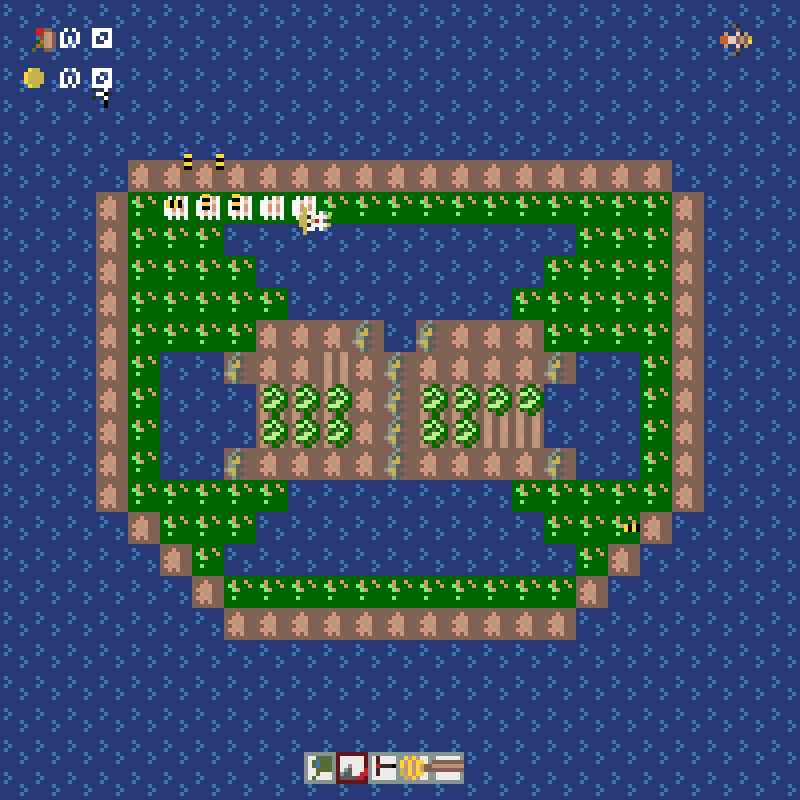
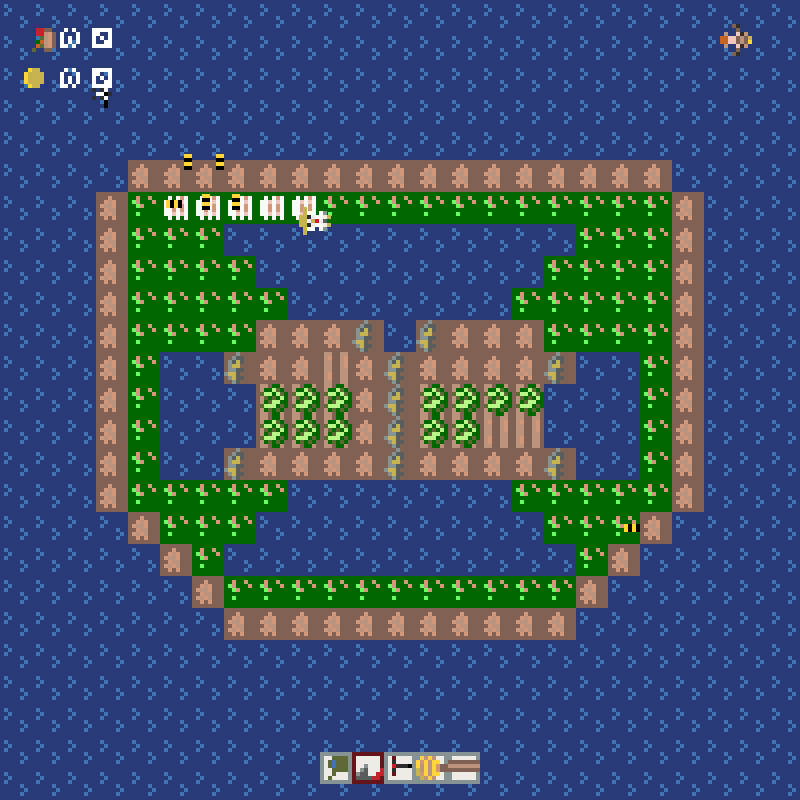
Present the README as a technical project
Lead with what the project is and how it is engineered: highlights,
architecture with a frame pipeline diagram, engineering notes on the
fixes and their design, and the testing strategy. The coursework origin,
credits for course-provided material and AI usage move to a Background
section. Refresh the screenshot with the centred inventory bar.

Changed region(s): [[0.375, 0.9375, 0.625, 1.0]]

diff --git a/README.md b/README.md
@@ -1,123 +1,160 @@
-# 🐔 JavaBeans - Chicken Farmer Game
+# 🐔 JavaBeans: Chicken Farmer
 
 [![CI](https://github.com/BrianTr9/JavaBeans-Chicken-Farmer-PITL/actions/workflows/ci.yml/badge.svg)](https://github.com/BrianTr9/JavaBeans-Chicken-Farmer-PITL/actions/workflows/ci.yml)
-[![Java](https://img.shields.io/badge/Java-21-ED8B00?style=flat-square&logo=java)](https://www.oracle.com/java/)
-[![License](https://img.shields.io/badge/License-Educational-blue?style=flat-square)](#-license)
+[![Java](https://img.shields.io/badge/Java-21-ED8B00?style=flat-square&logo=openjdk)](https://openjdk.org/projects/jdk/21/)
+[![Tests](https://img.shields.io/badge/tests-425_passing-brightgreen?style=flat-square)](#-testing)
+[![Gradle](https://img.shields.io/badge/build-Gradle-02303A?style=flat-square&logo=gradle)](build.gradle)
 
-A 2D farming game in Java, inspired by Stardew Valley. You play a chicken farmer who mines ore,
-grows cabbages and defends the farm from thieving birds with bee hives and scarecrows.
+A tile-based 2D farming game in Java 21. You farm crops and mine ore while thieving birds raid
+the farm. Bee hives and scarecrows defend it.
 
 <p align="center">
   <img src="docs/screenshot.png" alt="Gameplay: a row of bee hives releasing guard bees while birds
   approach the cabbage fields" width="480">
 </p>
 
-The project combines both CSSE2002 (Programming in the Large) assignments from the University
-of Queensland, Semester 2 2025, into a single codebase:
+**Highlights**
 
-- **Assignment 1**: the core game (player, world, tiles, tools, inventory), built from a
-  method-level specification.
-- **Assignment 2**: an extension that adds birds, spawners, towers and data-driven levels, plus
-  bug fixing, refactoring and JUnit tests.
-- **Consolidation**: merging both histories, fixing the remaining bugs, filling the test gaps
-  and adding a Gradle build, Checkstyle and CI.
+- **Simulation core**: a fixed-order, per-frame tick pipeline over the player, NPCs, enemies,
+  the tile world and the HUD. Entities are only marked for removal during updates and are
+  cleaned up between phases, so no collection changes while it is being iterated.
+- **Enemy behaviour**: three bird types with steering, theft, fleeing and lifespans, plus
+  timed spawners. Guard bees chase the nearest target. Stolen goods are refunded exactly once,
+  through a removal hook.
+- **Data-driven levels**: a tile map plus a key/value level file. The parser validates input and
+  reports the section and line of any error.
+- **425 automated tests**: unit tests for the game logic, plus whole-game simulation tests
+  that replay scripted input and analyse every rendered frame.
+- **Tooling**: Gradle wrapper, Checkstyle enforced at zero warnings, Javadoc with
+  design-by-contract tags, and GitHub Actions CI.
 
-## 🎮 Quick start
-
-Requires a JDK (17 to 24) to start Gradle. The wrapper downloads Gradle, and the build uses
-Java 21, which is downloaded automatically if it is not installed.
+## 🚀 Quick start
 
 ```bash
-./gradlew run      # play the game
-./gradlew test     # run all 414 JUnit tests
-./gradlew check    # tests + Checkstyle (CSSE2002 style guide)
+./gradlew run      # play
+./gradlew test     # run the test suite
+./gradlew check    # tests + Checkstyle
 ```
 
-On Windows use `gradlew.bat`. In IntelliJ IDEA, open the folder and import it as a Gradle
-project.
+A JDK between 17 and 24 is enough to start Gradle. The build compiles with Java 21 and downloads
+it automatically if it is missing. On Windows use `gradlew.bat`.
 
-## 🕹 How to play
+## 🕹 Gameplay
 
 | Input | Action |
 |-------|--------|
-| **W A S D** | Walk (water blocks you) |
+| **W A S D** | Walk (water blocks movement) |
 | **1 – 5** | Select an inventory slot |
-| **Left click** | Use the held tool on the tile you are standing on |
+| **Left click** | Use the held tool on the tile underfoot |
 
-Walking over a fully grown cabbage harvests it for **+2 food and +3 coins**. You start with
-20 coins and 30 food (set in `resources/uqLogo.details`).
+| Tool | Use on | Effect |
+|------|--------|--------|
+| Bucket | Tilled dirt | Plant a cabbage (2 coins). It ripens in four stages |
+| Hoe | Grass / dirt | Turn grass into dirt; till dirt |
+| Jackhammer | Ore | Mine 2 coins every 5 ticks (10 coins per rock) |
+| Hive hammer | Empty grass | Build a bee hive (2 coins + 2 food) |
+| Pole | Empty tilled dirt | Build a scarecrow (2 coins) |
 
-### Tools
+Walking over a ripe cabbage harvests it (+2 food, +3 coins).
 
-| Slot | Tool | Use on | Effect |
-|:---:|------|--------|--------|
-| 1 | Bucket | Tilled dirt | Plant a cabbage (2 coins). It ripens in 4 stages of 100 ticks |
-| 2 | Hoe | Grass / dirt | Turn grass into dirt; till dirt |
-| 3 | Jackhammer | Ore | Mine 2 coins every 5 ticks (10 coins per rock) |
-| 4 | Hive hammer | Empty grass | Build a bee hive (2 coins + 2 food) |
-| 5 | Pole | Empty tilled dirt | Build a scarecrow (2 coins) |
+| Enemy | Targets | Steals | Countered by |
+|-------|---------|--------|--------------|
+| Magpie | Player | 1 coin | Bees, scarecrows |
+| Eagle | Player | Up to 3 food | Bees |
+| Pigeon | Nearest cabbage | The cabbage | Bees, scarecrows |
 
-### Birds and defences
+Birds fly home after a theft. A bird removed before it gets home gives back what it stole.
 
-| Bird | Goes after | Steals | Stopped by |
-|------|-----------|--------|-----------|
-| 🐦 Magpie | The player | 1 coin | Bees, scarecrows |
-| 🦅 Eagle | The player | 3 food | Bees |
-| 🕊 Pigeon | Nearest cabbage | The cabbage | Bees, scarecrows |
-
-Birds fly home after a theft. If a bird is removed before it gets home (for example, caught by a
-bee), it **returns what it stole**. Pigeons only spawn while there is a cabbage to steal.
-
-- **Bee hive**: when a bird comes within 350 px, the hive releases a guard bee. The bee chases
-  the nearest bird and removes it on contact, or flies home when there are no birds left. The
-  hive reloads in 240 ticks, or 3× faster while you stand on it.
-- **Scarecrow**: magpies and pigeons within 4 tiles give up their attack and fly home.
+- **Bee hive**: when a bird comes within 350 px, the hive launches a guard bee. The bee homes in
+  on the nearest bird and removes it on contact, or returns to the hive when there are none.
+  The hive reloads in 240 ticks, or 3× faster while the player stands on it.
+- **Scarecrow**: magpies and pigeons within 4 tiles abandon their attack.
 
 ## 🏗 Architecture
 
-`JavaBeanFarm` is the game controller. The engine (`lib/engine.jar`, provided by course staff)
-calls `tick()` and `render()` every frame:
+```mermaid
+flowchart LR
+    E[Engine<br/>render + input] -->|tick| F[JavaBeanFarm]
+    F --> P[PlayerManager]
+    F --> N[NpcManager<br/>hives, bees, scarecrows]
+    F --> M[EnemyManager<br/>spawners, birds]
+    F --> W[BeanWorld<br/>tiles + stacked entities]
+    F --> O[Overlays<br/>inventory bar, HUD]
+    P & N & M & W & O -.->|read/write| G[(GameState<br/>world, player,<br/>inventory, managers)]
+```
+
+Each frame runs a fixed pipeline. Every component receives the same `GameState`, a facade over
+the world, player, inventory and managers. Components use it to reach each other instead of
+being wired together directly:
 
 ```
-tick:   player → NPCs (hives, bees, scarecrows) → enemies (spawners, birds) → world tiles
-        → overlays → NPC interactions → cleanup of removed entities
-render: world tiles (+ stacked crops/rocks/towers) → NPCs → birds → player → overlays
+player input → NPCs → spawners + birds → tiles → NPC interactions → deferred removal → HUD
 ```
+
+The HUD is updated last, so it always shows the frame's final coins and food.
 
 | Package | Responsibility |
 |---------|----------------|
-| `builder` | `JavaBeanFarm` (controller), `GameState` (what every tick can see) |
-| `builder.player` | `ChickenFarmer` and `PlayerManager` (movement, collisions, tool use) |
-| `builder.world` | `BeanWorld` (tile storage), `WorldBuilder` (`.map` loading), `OverlayBuilder` (`.details` loading) |
-| `builder.entities.tiles` | `Tile` base class with stacked entities, plus `Grass`, `Dirt`, `Water`, `OreVein`, `TileFactory` |
-| `builder.entities.resources` | `Cabbage`, `Ore` |
-| `builder.entities.npc` | `Npc` (heading + speed movement), `NpcManager`, `BeeHive`, `GuardBee`, `Scarecrow` |
-| `builder.entities.npc.enemies` | `Enemy` → `AbstractBird` → `Magpie` / `Eagle` / `Pigeon`, `EnemyManager` |
-| `builder.entities.npc.spawners` | `Spawner` → `AbstractBirdSpawner` → one spawner per bird |
-| `builder.inventory` | `TinyInventory`, the five tools and the inventory/resource overlays |
+| `builder` | Game controller and the `GameState` facade |
+| `builder.player` | Player entity; movement, collision and tool use |
+| `builder.world` | Tile storage and spatial queries; map and level-file loading |
+| `builder.entities.tiles` | `Tile` base class (holds stacked entities) and tile types; `TileFactory` |
+| `builder.entities.resources` | Growable crops and mineable ore |
+| `builder.entities.npc` | Heading/speed movement model, NPC manager, hives, bees, scarecrows |
+| `builder.entities.npc.enemies` | `Enemy` → `AbstractBird` → magpie, eagle, pigeon; enemy manager |
+| `builder.entities.npc.spawners` | `AbstractBirdSpawner` (timer + spawn hook) and one spawner per bird |
+| `builder.inventory` | Inventory model, tools, and the inventory/resource overlays |
 
-Design techniques used in the code:
+Rendering, input, sprites and timers come from a small game engine (`lib/engine.jar`, see
+[Background](#-background)).
 
-- **Factory**: `TileFactory` maps map symbols to tiles.
-- **Template method**: `AbstractBirdSpawner.tick` owns the timer and calls each spawner's
-  `spawnBird`.
-- **Composite rendering**: tiles render themselves plus whatever is stacked on them;
-  `RenderableGroup` lets managers render collections.
-- **Polymorphism**: each tile decides what a tool does to it (`use`) and what happens when the
-  player walks over it (`interact`). Birds declare their own pace (`ticksPerFrame`) and their
-  clean-up when removed (`onRemoved`).
-- **Encapsulation**: managers expose read-only views of their collections.
+## 🧠 Engineering notes
+
+Problems found and fixed while hardening the codebase, and the design choices behind the fixes:
+
+- **Hidden double updates → explicit pace.** Spawners registered each magpie and pigeon twice,
+  so they were silently updated twice per frame. The simulation tests were already calibrated to
+  that speed. Each bird is now stored once, and the pace is a declared property
+  (`Enemy.ticksPerFrame`), so the observable behaviour is unchanged.
+- **Lost refunds → removal hook.** Refunds ran inside a bird's own update, but a bird caught by a
+  bee was removed before that update ran again, so nothing was ever returned. Removal now goes
+  through `EnemyManager.cleanup`, which calls `Enemy.onRemoved` exactly once. The bird tracks
+  whether it made it home.
+- **Encapsulation.** Managers expose read-only views of their collections. Spawners create their
+  own bird at their own position, replacing a mutable "next spawn position" on the manager.
+- **Validated input.** Level-file entries are parsed as `key:value` pairs in any order. Missing
+  or duplicate keys, non-integer values and a wrong player count produce a load error naming the
+  section and line.
+- **Rendering correctness.** Sprites are drawn centred on their position. The inventory bar's
+  layout treated positions as left edges and was off by half a tile.
+
+## 🧪 Testing
+
+| Suite | Location | Classes | Tests |
+|-------|----------|:---:|:---:|
+| Unit tests | `test/builder` | 22 | 345 |
+| Simulation tests | `test/scenarios` | 11 | 80 |
+
+- **Unit tests** cover the game logic: inventory, tiles and tools, crops and ore, player
+  controls, the HUD, birds, bees, spawners, managers and both file loaders. Small real game
+  states (`GameFixture`) are used instead of deep mocks.
+- **Simulation tests** run the whole game through the real engine with a mocked input/output
+  core. They record every renderable on every frame, then assert on trajectories, spawn timing,
+  sprite changes and resource read-outs.
+- **Regression tests** reproduce each fixed bug. New tests were checked against deliberately
+  broken implementations to confirm they fail.
+
+CI runs `./gradlew check` (compile, all tests, Checkstyle) on every push and pull request.
 
 ## 🗺 Level files
 
-A level is a `.map` file plus a `.details` file, both in `resources/`.
+A level is a `.map` file plus a `.details` file in `resources/`.
 
-**`.map`**: one character per tile, one line per row (25 × 25 for the default window):
+**`.map`**: one character per tile, one line per row (25 × 25 by default): `g` grass, `d` dirt,
+`t` tilled dirt, `w` water, `o` ore.
 
-| `g` grass | `d` dirt | `t` tilled dirt | `w` water | `o` ore |
-|---|---|---|---|---|
-
-**`.details`**: sections of `key:value` entries (keys in any order, `|` prefix optional):
+**`.details`**: sections of `key:value` entries. Keys may appear in any order, and the `|`
+prefix is optional:
 
 ```
 :chickenFarmer:
@@ -134,69 +171,41 @@ end;
 ```
 
 The `eaglespawner` and `pigeonspawner` sections use the same format as `magpiespawner`. Every
-section must be present (it may be empty). A malformed entry is reported with the section and
-line at fault.
+section must be present, but it may be empty.
 
-## 🧪 Testing
+## 🧰 Tech stack
 
-| Suite | Location | Classes | Tests |
-|-------|----------|:---:|:---:|
-| Unit tests | `test/builder` | 21 | 334 |
-| System tests (course staff) | `test/scenarios` | 11 | 80 |
+Java 21 (records, pattern matching, switch expressions) · Gradle 8 · JUnit 4 · Checkstyle ·
+GitHub Actions
 
-The system tests replay scripted input through the real engine with mocked input and analyse
-every rendered frame. The unit tests cover all game classes, including `TinyInventory` and the
-Assignment 1 tiles, tools, player and resources. CI runs `./gradlew check` (tests + Checkstyle)
-on every push and pull request.
+## 📚 Background
 
-## 📜 Project history
+This project started as coursework for **CSSE2002 Programming in the Large** at the University
+of Queensland (Semester 2, 2025):
 
-| Phase | What happened |
-|-------|---------------|
-| **Assignment 1** (Stages 1–3) | Player movement, tile world and map loading, collisions, mining, tilling, planting, harvesting, inventory and overlays |
-| **Assignment 2** | Provided with a buggy, poorly structured extension. Fixed the bugs found by the system tests, refactored birds, spawners, towers and level loading (see [`docs/assignment2-refactoring-report.md`](docs/assignment2-refactoring-report.md)), and wrote unit tests |
-| **Consolidation** | Merged both git histories and fixed the issues below. Added tests for the Assignment 1 classes (the missing Stage 4), a Gradle build, Checkstyle and CI, and removed the assignment scaffolding |
+- **Assignment 1**: the core game, implemented from a method-level specification.
+- **Assignment 2**: a deliberately buggy, poorly structured extension (birds, spawners,
+  towers). The task was to fix it, refactor it and test it. See the
+  [refactoring report](docs/assignment2-refactoring-report.md).
 
-Bugs fixed during consolidation:
+Both assignments were later merged into this repository, keeping their full git history. That
+consolidation added the fixes above, the missing tests, the build tooling and CI.
 
-- Spawners added every magpie and pigeon to the enemy list twice, so they were silently ticked
-  twice per frame. Each bird is now stored once, and the pace the system tests rely on is
-  explicit (`Enemy.ticksPerFrame`).
-- Birds caught by a bee never returned stolen goods, because they were cleaned up before their
-  refund code ran. Refunds now happen in `Enemy.onRemoved`, exactly once.
-- An eagle could "return" food the player never had.
-- Guard bees showed the wrong sprite when flying up or right, and kept chasing a dead target
-  instead of flying home.
-- Malformed `.details` files crashed with index or number errors. They now produce clear
-  load errors.
+**Credits.** The game engine (`lib/engine.jar`), the simulation tests in `test/scenarios`, the
+sprite art, the original specifications ([`docs/`](docs/)) and the Checkstyle configuration were
+provided by the CSSE2002 course staff.
 
-The assignment specifications are in [`docs/`](docs/).
+**AI usage.** Assignment 1 was written without generative AI. Assignment 2 used ChatGPT and
+Claude for Javadoc and an initial test baseline ([declaration](docs/ai-declaration.txt)). The
+consolidation work was done with the help of Claude Code.
 
-## 🤖 AI usage
-
-- **Assignment 1** was written without generative AI tools.
-- **Assignment 2** used ChatGPT and Claude for Javadoc comments and an initial `PigeonTest`
-  baseline, as declared in [`docs/ai-declaration.txt`](docs/ai-declaration.txt).
-- **Consolidation** (history merge, bug fixes, new tests, build, CI and this README) was done
-  with the help of Claude Code.
-
-## 🤝 Academic integrity
-
-This is an educational project for CSSE2002 at the University of Queensland. You may learn from
-it and reference it. Do not submit it as your own work. See the
-[UQ Academic Integrity policy](https://uq.mu/rl553).
+**Academic integrity.** You may learn from this code and reference it. Do not submit any part
+of it as coursework. See the [UQ Academic Integrity policy](https://uq.mu/rl553).
 
 ## 📄 License
 
-**Educational License**: University of Queensland CSSE2002 (Semester 2, 2025).
-
-- ✅ Portfolio display, GitHub showcase, code review and technical interviews
-- ✅ Learning from the architecture and design
-- ❌ Copying code to submit for assignments or courses
-- ❌ Commercial use without permission
-
-The game engine (`lib/engine.jar`), the system tests in `test/scenarios`, the assignment
-specifications and the Checkstyle configuration are provided by the CSSE2002 course staff.
+Educational use only. Free to view, study and reference, and to discuss in reviews or
+interviews. Not to be copied into coursework or used commercially without permission.
 
 ## 👤 Author
 
